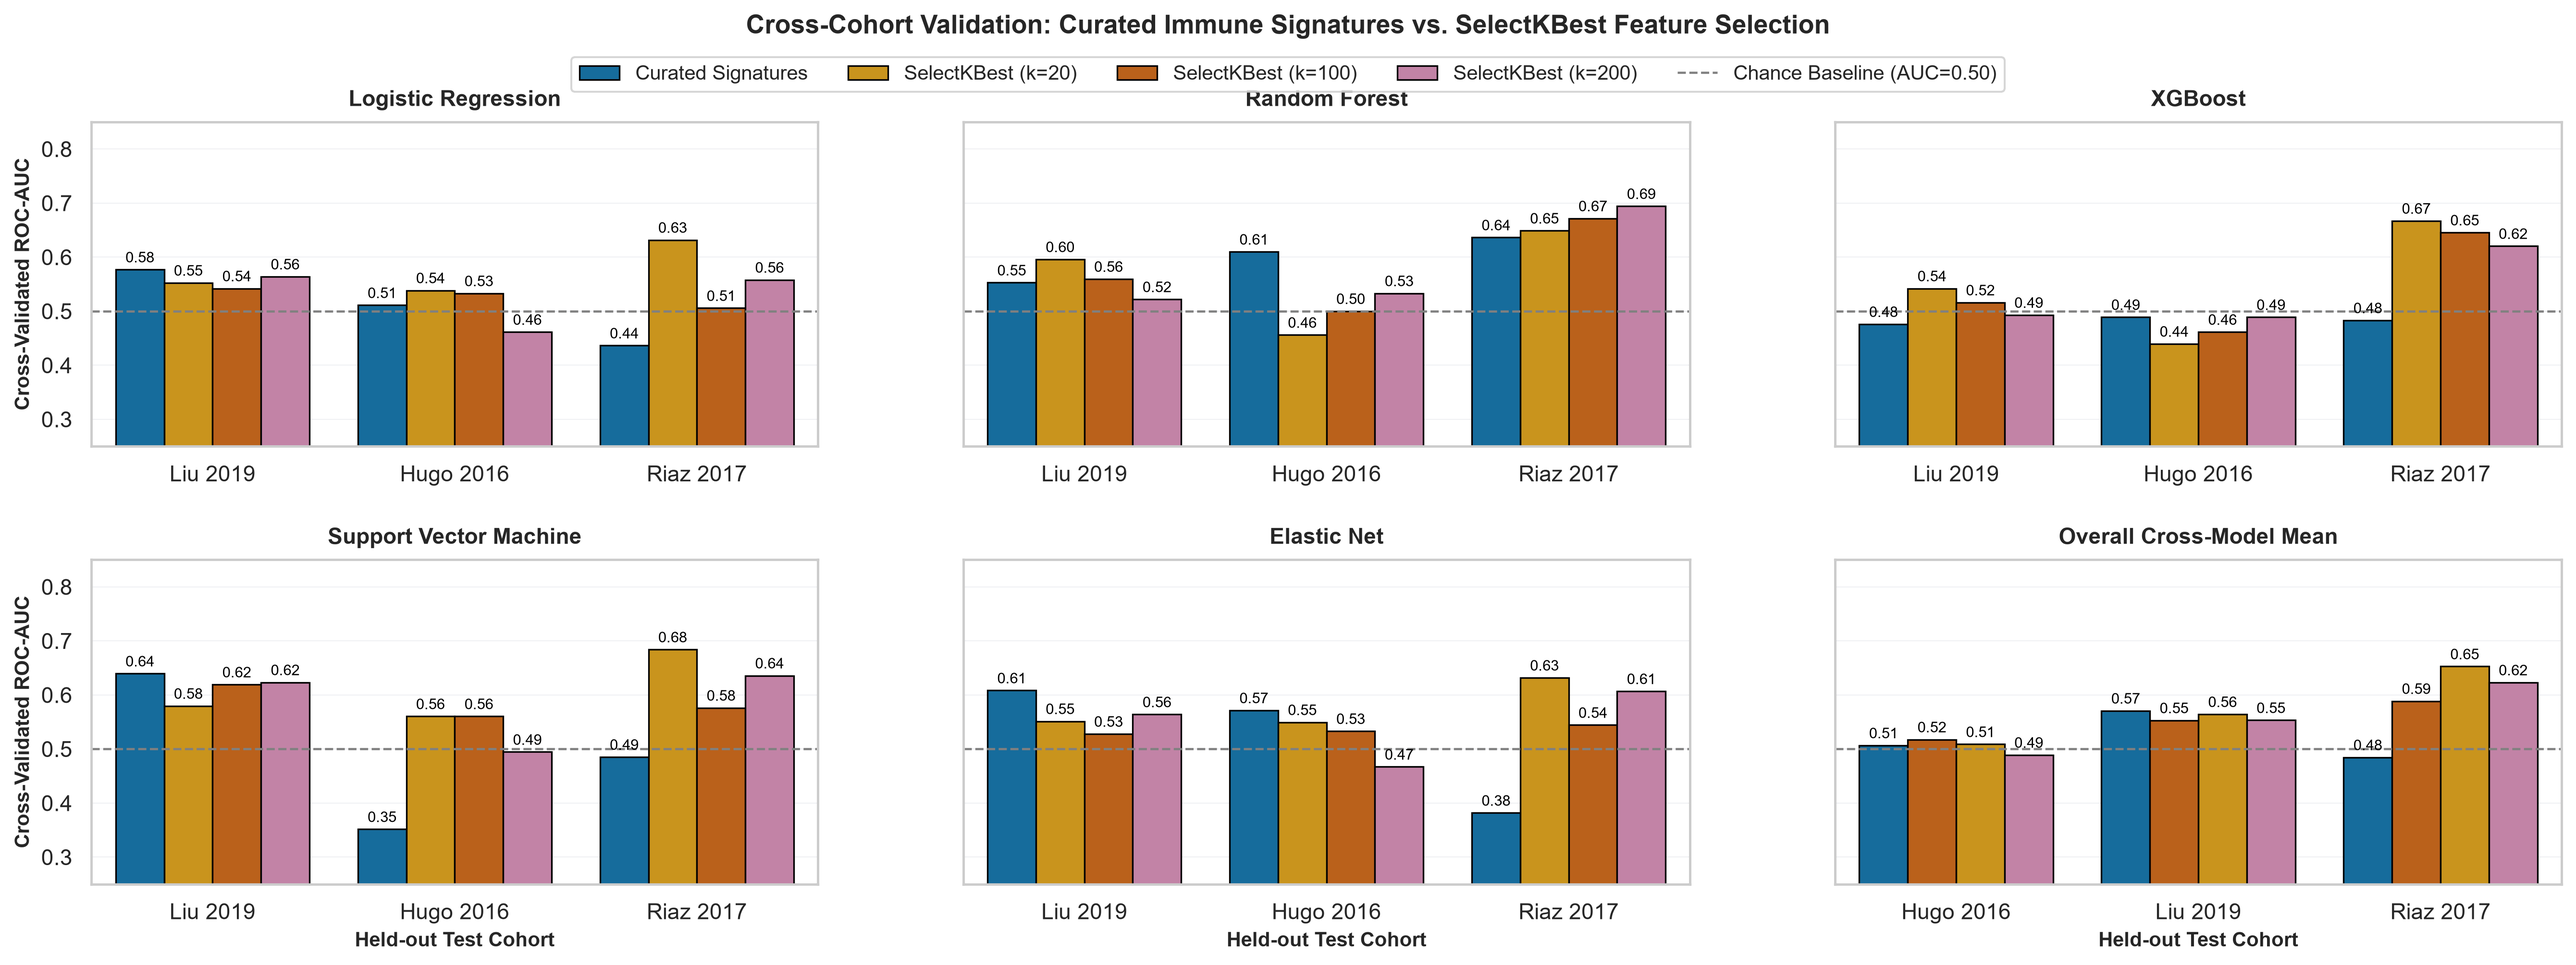
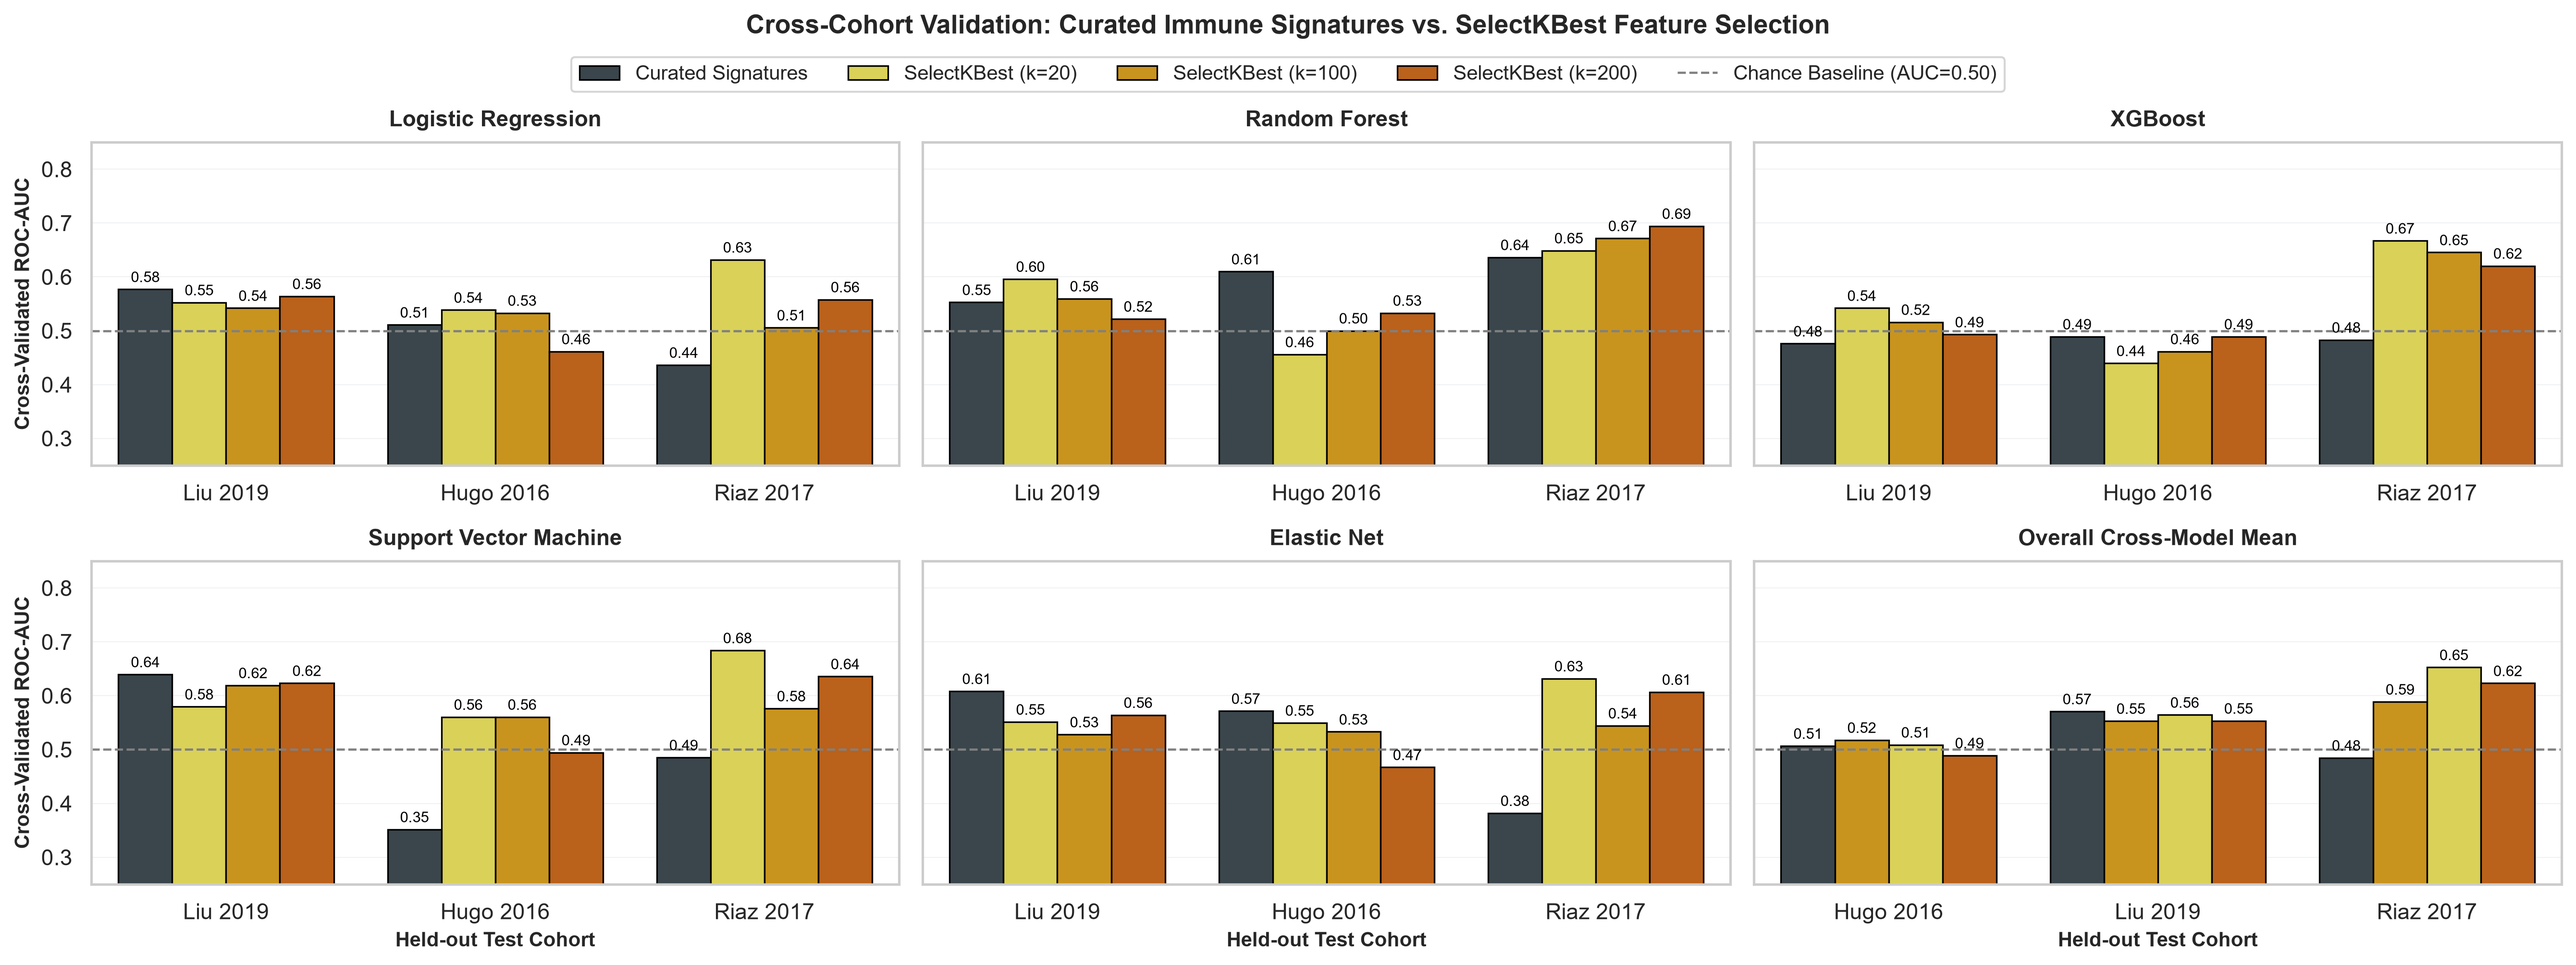
style(plots): update feature selection palette to Dark Slate Charcoal for curated signatures and Yellow -> Orange -> Vermillion gradient

diff --git a/src/styles.py b/src/styles.py
@@ -111,10 +111,10 @@ MODEL_TYPE_PALETTE = {
 
 # Feature Selection Method Encoding (AUC comparison plots)
 FEATURE_SELECTION_PALETTE = {
-    "Curated Signatures":  "#0072B2",  # Okabe-Ito Blue
-    "SelectKBest (k=20)":  "#E69F00",  # Okabe-Ito Orange
-    "SelectKBest (k=100)": "#D55E00",  # Okabe-Ito Vermillion
-    "SelectKBest (k=200)": "#CC79A7",  # Okabe-Ito Reddish Purple
+    "Curated Signatures":  "#37474F",  # Dark Slate Charcoal
+    "SelectKBest (k=20)":  "#F0E442",  # Okabe-Ito Yellow
+    "SelectKBest (k=100)": "#E69F00",  # Okabe-Ito Orange
+    "SelectKBest (k=200)": "#D55E00",  # Okabe-Ito Vermillion
 }
 
 # Threshold Optimisation Strategy Encoding (default vs Youden's J cutoff comparison)
